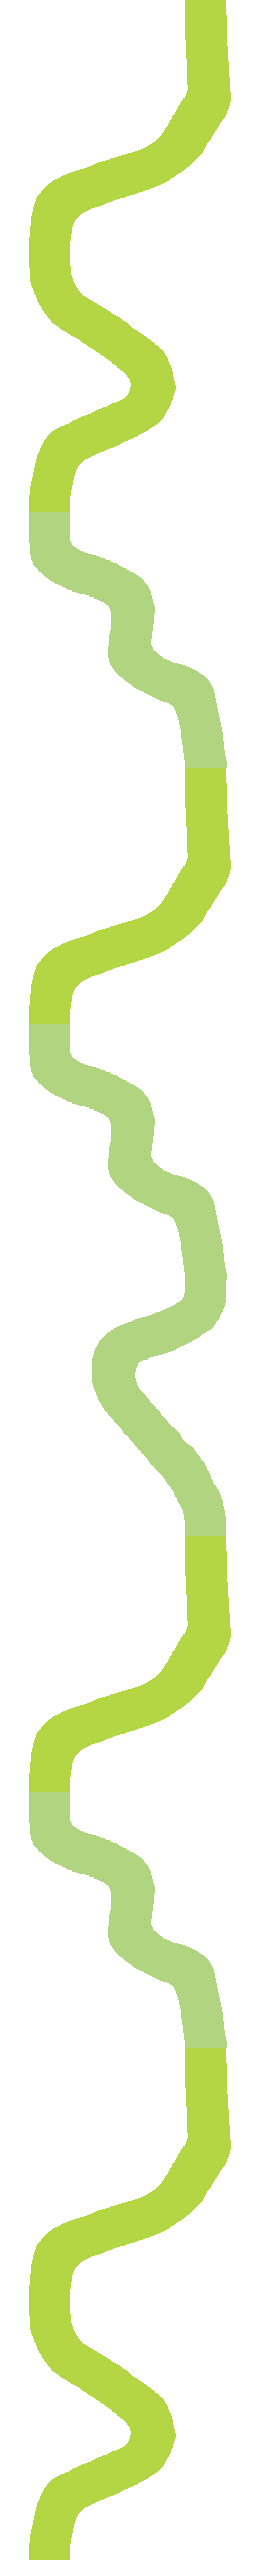
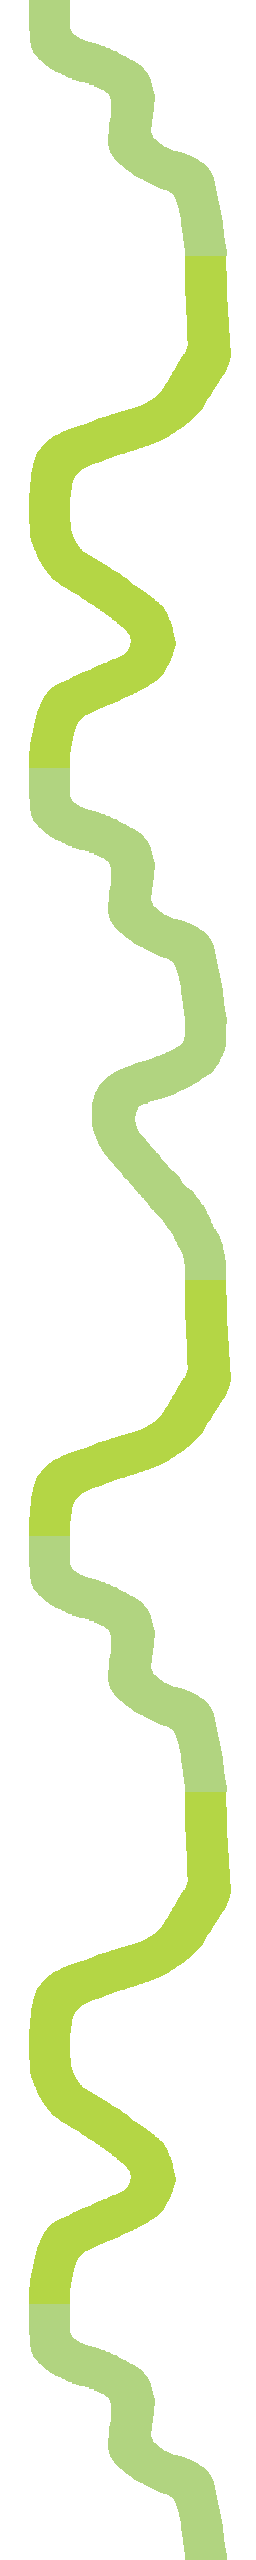
SISTEMATA LA MAPPA :D

diff --git a/src/main/java/com/example/carrace12/ImplementazioneGrafica.java b/src/main/java/com/example/carrace12/ImplementazioneGrafica.java
@@ -37,8 +37,6 @@ import java.util.List;
 
  * ho aggiornato (messo anche su giT) la mappa con anche al funzione lenght che ho visto che volpo voleva
  tipo getLength()? si per ora ho fatto una cosa bruttissima che funziona, ma non è molto elegante
-
- ma che cazzo???? copilot mi consiglia pure le frasi in italiano [faccina dello scheletro]
  */
 
 
@@ -60,13 +58,18 @@ public class ImplementazioneGrafica extends Application{
      */
     int MAP_HEIGHT;
 
-    final int xDimFinestra=1024;
-    final int yDimFinestra=700;
+    /**
+     * Starting Side of the Map.
+     */
+    char startingPoint;
+
+    final static int xDimFinestra=1024;
+    final static int yDimFinestra=700;
 
     @Override
     public void start(Stage stage) throws IOException {
         generateMap();
-        SpriteCar sprite = new SpriteCar();
+        SpriteCar sprite = new SpriteCar(startingPoint);
         mapBackground mapB = new mapBackground(this.map);
 
         mapB.background.setFitWidth(MAP_WIDTH*4);
@@ -74,15 +77,11 @@ public class ImplementazioneGrafica extends Application{
         mapB.background.setPreserveRatio(true);
 
         mapB.background.setX(0);
-        mapB.background.setY(yDimFinestra -(MAP_HEIGHT*4));
 
         System.out.println(mapB.background.getFitHeight());
-        System.out.println(mapB.background.getFitWidth());
 
         Group root = new Group(mapB.background, sprite.car);
-        Scene scene = new Scene(root,xDimFinestra, yDimFinestra);
-
-
+        Scene scene = new Scene(root, xDimFinestra, yDimFinestra);
 
         scene.setOnKeyPressed(new EventHandler<KeyEvent>() {
             @Override
@@ -91,7 +90,7 @@ public class ImplementazioneGrafica extends Application{
 
                 switch (event.getCode()){
                     case W:
-                    case UP: {
+                        /*case UP:*/{
 
                         if (sprite.getPositionY() < 250) {
                             mapB.setVelYB(2);
@@ -103,7 +102,7 @@ public class ImplementazioneGrafica extends Application{
                         break;
                     }
                     case S:
-                    case DOWN:{
+                        /*case DOWN:*/{
                         if (sprite.getPositionY() > 500) {
                             mapB.setVelYB(-2);
                             sprite.setVelY(0);
@@ -115,13 +114,13 @@ public class ImplementazioneGrafica extends Application{
                     }
 
                     case A:
-                    case LEFT:{
+                        /*case LEFT:*/{
                         sprite.setVelX(-2);
                         break;
                     }
 
                     case D:
-                    case RIGHT:{
+                        /*case RIGHT:*/{
                         sprite.setVelX(2);
                         break;
                     }
@@ -129,11 +128,9 @@ public class ImplementazioneGrafica extends Application{
 
                 }
 
-                System.out.println(event.getCode());
-
+                //System.out.println(event.getCode());
             }
         });
-
         scene.setOnKeyReleased(new EventHandler<KeyEvent>() {
             @Override
             public void handle(KeyEvent event) {
@@ -153,8 +150,9 @@ public class ImplementazioneGrafica extends Application{
                 }
             }
         });
-        sprite.atS.start();
+
         mapB.atB.start();
+        sprite.atS.start();
         stage.setTitle("Car Race");
         stage.setScene(scene);
         stage.show();
@@ -198,6 +196,10 @@ public class ImplementazioneGrafica extends Application{
         if(checkShowedMap && checkLayoutMap){
             Collections.reverse(chunkList);
             System.out.println(chunkList);
+
+            startingPoint = chunkList.get(0).charAt(2);
+            System.out.println();
+
             return true;
         }
 
